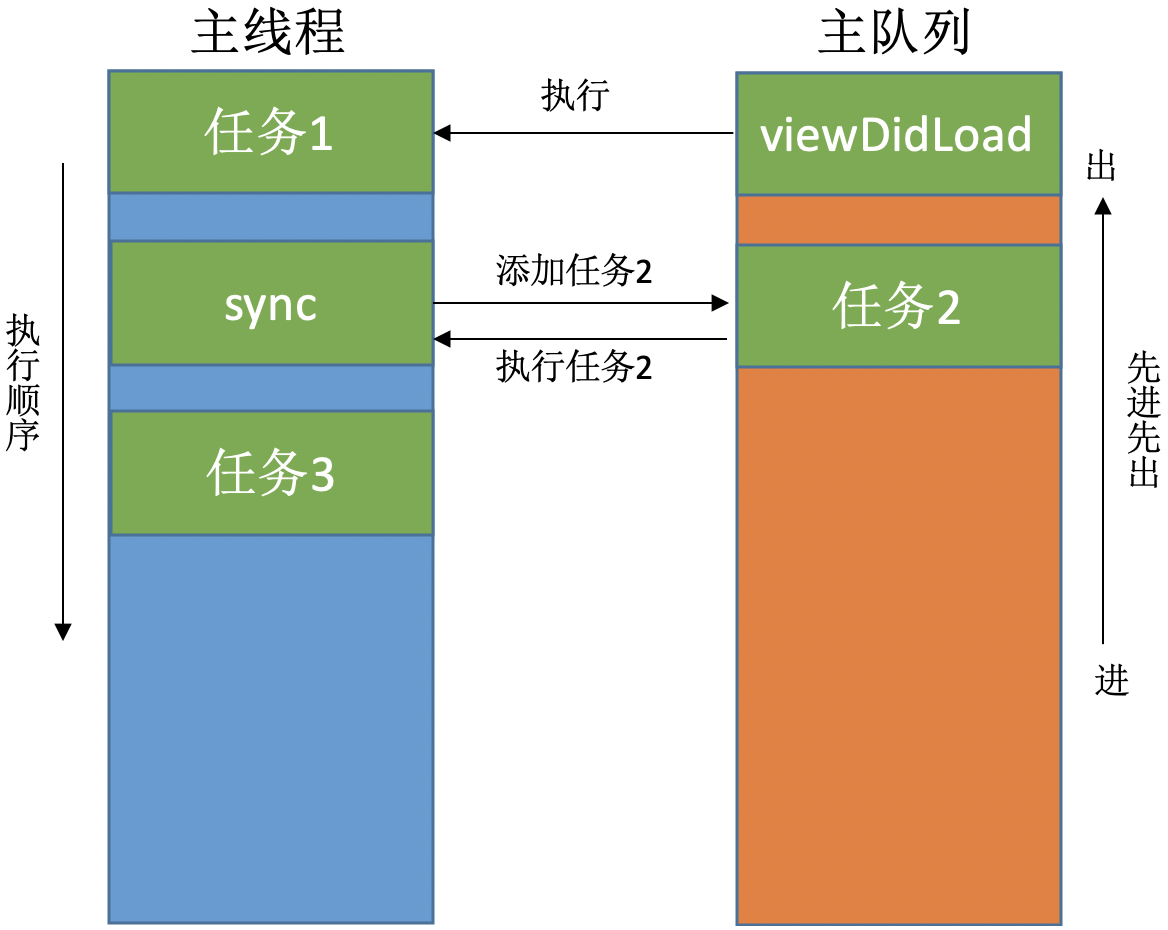
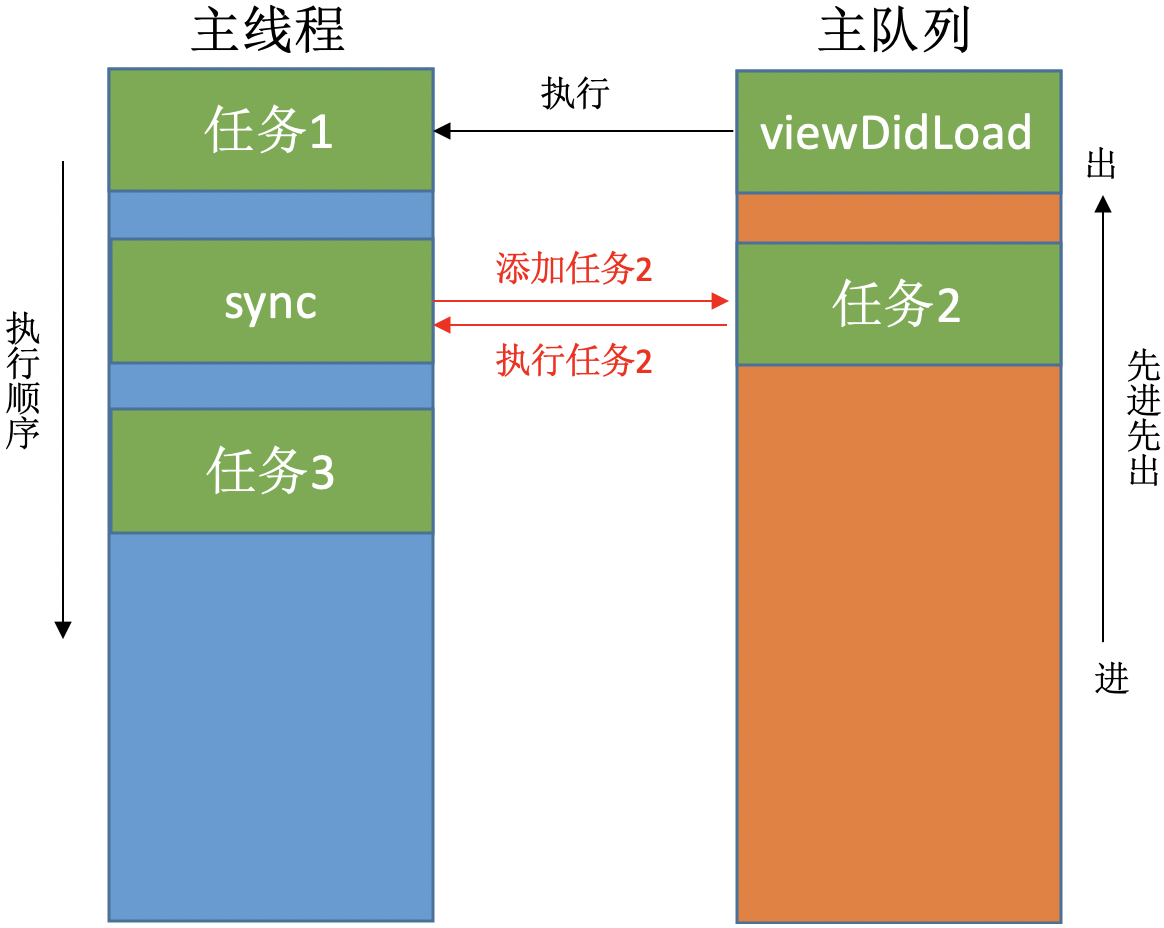
Site updated: 2020-07-23 11:01:39

diff --git a/2020/07/14/OC底层/原理/多线程/index.html b/2020/07/14/OC底层/原理/多线程/index.html
@@ -85,7 +85,8 @@
 <meta property="og:image" content="http://yoursite.com/2020/07/14/OC底层/原理/多线程/多线程01.png">
 <meta property="og:image" content="http://yoursite.com/2020/07/14/OC底层/原理/多线程/多线程02.png">
 <meta property="og:image" content="http://yoursite.com/2020/07/14/OC底层/原理/多线程/多线程08.png">
-<meta property="og:updated_time" content="2020-07-23T02:14:18.772Z">
+<meta property="og:image" content="http://yoursite.com/2020/07/14/OC底层/原理/多线程/多线程09.png">
+<meta property="og:updated_time" content="2020-07-23T02:36:53.378Z">
 <meta name="twitter:card" content="summary">
 <meta name="twitter:title" content="多线程">
 <meta name="twitter:description" content="思考：  你理解的多线程？ iOS的多线程方案有哪几种？你更倾向于哪一种？ 你在项目中用过 GCD 吗？ GCD 的队列类型 说一下 OperationQueue 和 GCD 的区别，以及各自的优势 线程安全的处理手段有哪些？ OC你了解的锁有哪些？在你回答基础上进行二次提问；追问一：自旋和互斥对比？追问二：使用以上锁需要注意哪些？追问三：用C/OC/C++，任选其一，实现自旋或互斥？">
@@ -481,6 +482,7 @@ table th:nth-of-type(5){
 <p>问题分析：<br><img src="/2020/07/14/OC底层/原理/多线程/多线程02.png" alt="多线程02"></p>
 <p><code>sync</code> 函数在这里的作用有两个，第一个是添加任务2，第二个是执行任务2。因为主队列是串行队列，所以遵循先进先出原则，只有在第一个任务 <code>viewDidLoad</code> 执行完成后才能执行任务2。但是第一个任务 <code>viewDidLoad</code> 要想执行完就必须执行完 <code>sync</code> 函数，而 <code>sync</code> 函数要想执行完就必须执行完任务2，而任务2要想执行完就必须执行完 <code>viewDidLoad</code> … … 产生死锁。</p>
 <p>死锁二：<br><img src="/2020/07/14/OC底层/原理/多线程/多线程08.png" alt="多线程08"></p>
+<p>问题分析：<br><img src="/2020/07/14/OC底层/原理/多线程/多线程09.png" alt="多线程09"></p>
 <h2 id="performSelector-withObject-afterDelay"><a href="#performSelector-withObject-afterDelay" class="headerlink" title="performSelector:withObject:afterDelay:"></a>performSelector:withObject:afterDelay:</h2><p>在子线程里调用 <code>performSelector:withObject:afterDelay:</code> 方法：<br><figure class="highlight objectivec"><table><tr><td class="gutter"><pre><div class="line">1</div><div class="line">2</div><div class="line">3</div><div class="line">4</div><div class="line">5</div><div class="line">6</div><div class="line">7</div><div class="line">8</div><div class="line">9</div><div class="line">10</div><div class="line">11</div><div class="line">12</div><div class="line">13</div><div class="line">14</div></pre></td><td class="code"><pre><div class="line">- (<span class="keyword">void</span>)test</div><div class="line">&#123;</div><div class="line">    <span class="built_in">NSLog</span>(<span class="string">@"执行任务2 - %@ - %@"</span>, [<span class="built_in">NSThread</span> currentThread], [<span class="built_in">NSOperationQueue</span> currentQueue]);</div><div class="line">&#125;</div><div class="line"></div><div class="line">- (<span class="keyword">void</span>)touchesBegan:(<span class="built_in">NSSet</span>&lt;<span class="built_in">UITouch</span> *&gt; *)touches withEvent:(<span class="built_in">UIEvent</span> *)event</div><div class="line">&#123;</div><div class="line">    <span class="built_in">dispatch_queue_t</span> queue = dispatch_get_global_queue(<span class="number">0</span>, <span class="number">0</span>);</div><div class="line">    <span class="built_in">dispatch_async</span>(queue, ^&#123;</div><div class="line">        <span class="built_in">NSLog</span>(<span class="string">@"1"</span>);</div><div class="line">        [<span class="keyword">self</span> performSelector:<span class="keyword">@selector</span>(test) withObject:<span class="literal">nil</span> afterDelay:<span class="number">.0</span>];</div><div class="line">        <span class="built_in">NSLog</span>(<span class="string">@"3"</span>);</div><div class="line">    &#125;);</div><div class="line">&#125;</div></pre></td></tr></table></figure></p>
 <p>打印结果：<br><figure class="highlight lsl"><table><tr><td class="gutter"><pre><div class="line">1</div><div class="line">2</div></pre></td><td class="code"><pre><div class="line"><span class="number">1</span></div><div class="line"><span class="number">3</span></div></pre></td></tr></table></figure></p>
 <p>从打印结果可以看到，<code>performSelector:withObject:afterDelay:</code> 方法并没有起作用。这是因为 <code>performSelector:withObject:afterDelay:</code> 方法内部使用了 timer，而子线程默认没有 RunLoop，所以 <code>performSelector:withObject:afterDelay:</code> 方法内部的 TImer 无法调用。</p>

diff --git a/css/main.css b/css/main.css
@@ -1818,7 +1818,7 @@ pre .javascript .function {
   width: 4px;
   height: 4px;
   border-radius: 50%;
-  background: #08062f;
+  background: #5eff4f;
 }
 .links-of-blogroll {
   font-size: 13px;
